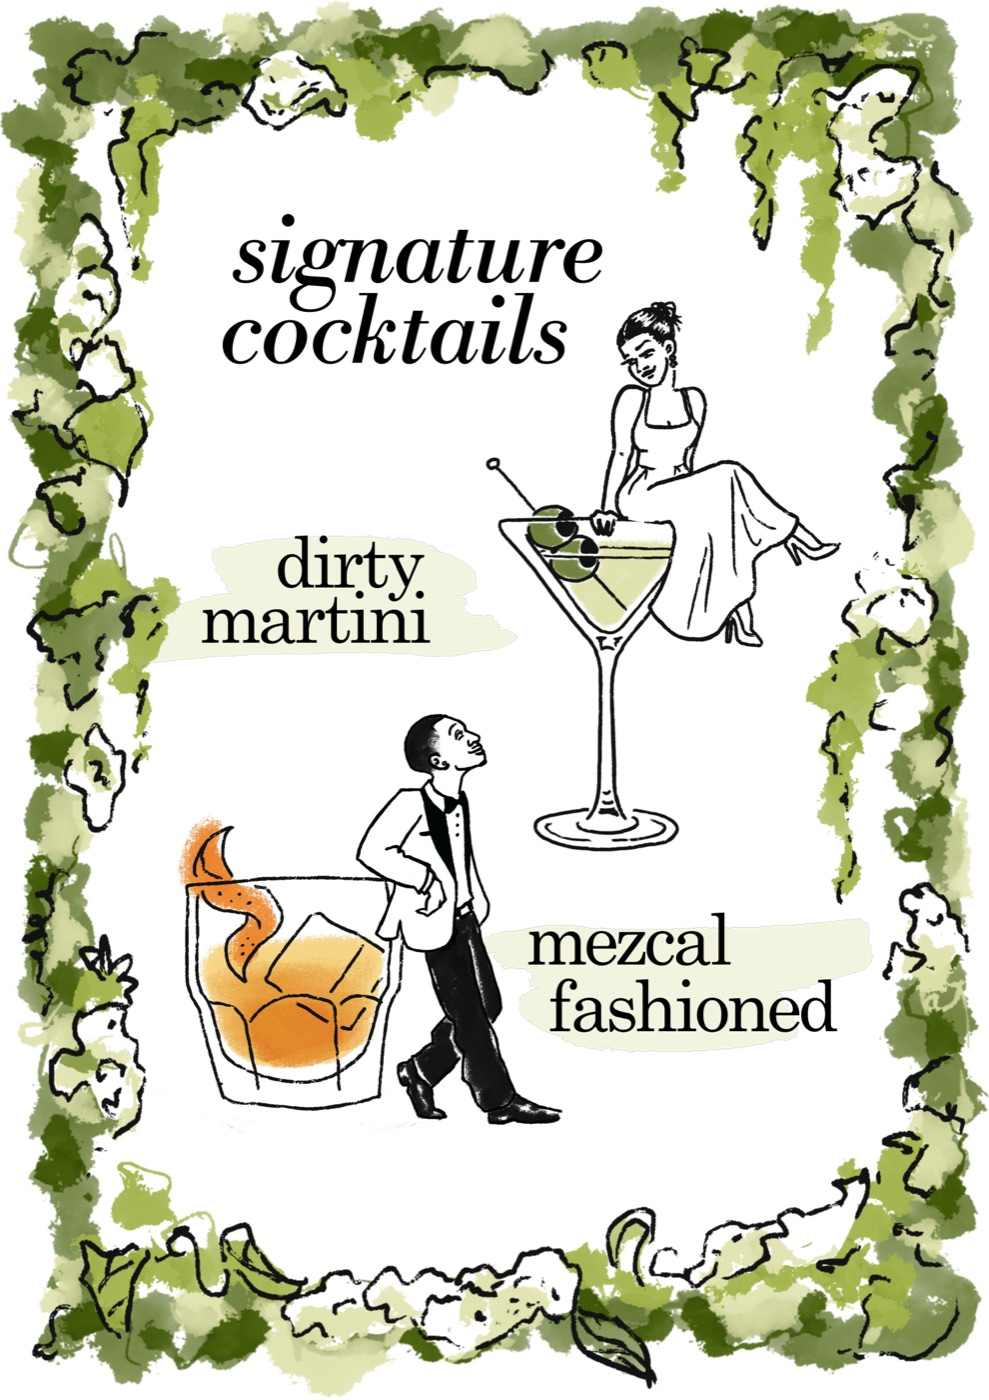
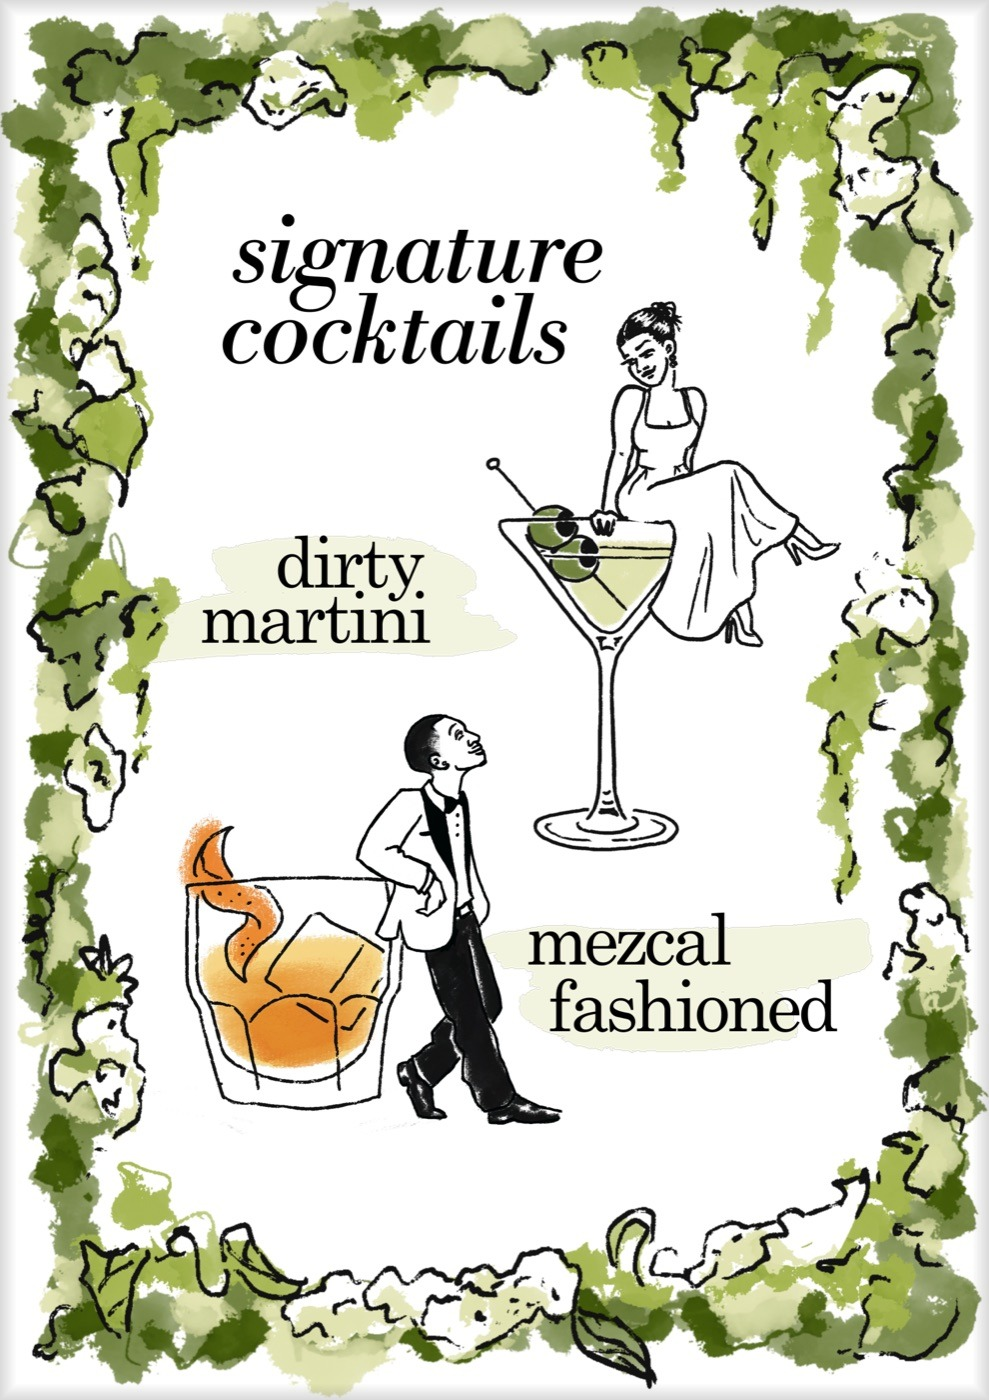
Brinn and CJ: bake the cocktail menu's shadow into the image itself
The CSS box-shadow on the cocktail menu was a fixed-pixel blur, so it
didn't scale with the image the way the other pieces' shadows (baked
into their files as a soft edge vignette) do -- it read as too heavy
at collage-thumbnail size and inconsistent at other sizes. Replace it
with the same kind of vignette baked directly into the file so it
scales exactly like the rest.

Changed region(s): [[0.0, 0.0, 1.0, 1.0]]

diff --git a/projects/brinn-cj-get-married.html b/projects/brinn-cj-get-married.html
@@ -41,7 +41,7 @@
               <img class="float drag" style="--x:142; --y:650; --w:580; --z:1" src="../assets/B&amp;CJ/B&amp;CJ_Final_All/web/gate-front.png" alt="Wedding invitation: illustrated iron gate with calla lily florals, inviting guests to the wedding of Brinn Strenger and CJ Siples">
               <img class="float drag" style="--x:522; --y:833; --w:570; --z:2" src="../assets/B&amp;CJ/B&amp;CJ_Final_All/web/gate-back.png" alt="Invitation details card: April 9th 2027 at The Arlo, Austin Texas, black-tie optional, RSVP by March 12th 2027">
               <img class="float drag" style="--x:1093; --y:195; --w:435; --z:1" src="../assets/B&amp;CJ/B&amp;CJ_Final_All/web/rehearsal-dinner.png" alt="Rehearsal dinner invitation with calla lily florals matching the wedding invitation suite">
-              <img class="float drag cocktail-shadow" style="--x:1533; --y:200; --w:435; --z:1" src="../assets/B&amp;CJ/B&amp;CJ_Final_All/web/cocktail-menu.jpg" alt="Illustrated wedding cocktail menu">
+              <img class="float drag" style="--x:1533; --y:200; --w:435; --z:1" src="../assets/B&amp;CJ/B&amp;CJ_Final_All/web/cocktail-menu.jpg" alt="Illustrated wedding cocktail menu">
               <img class="float drag" style="--x:1095; --y:833; --w:430; --z:1" src="../assets/B&amp;CJ/B&amp;CJ_Final_All/web/sticker-black.png" alt="Brinn and CJ wedding sticker, black background, line-art illustration of the couple dancing">
               <img class="float drag" style="--x:1430; --y:920; --w:410; --z:2" src="../assets/B&amp;CJ/B&amp;CJ_Final_All/web/sticker-green.png" alt="Brinn and CJ wedding sticker, green background, line-art illustration of the couple dancing">
             </div>

diff --git a/css/style.css b/css/style.css
@@ -533,13 +533,6 @@ nav.projects .nav-bottom {
   width: auto;
 }
 
-/* the cocktail menu is a full-bleed illustration with no baked-in card
-   shadow like the other Brinn & CJ stationery mockups, so match those
-   with a soft CSS elevation shadow instead */
-.cocktail-shadow {
-  box-shadow: 0 0 18px rgba(0, 0, 0, 0.16);
-}
-
 /* single hero (no carousel); longer copy wraps onto two lines */
 .hero-row.single .project-desc { white-space: normal; max-width: min(100%, 720px); }
 .hero-row.single .hero-stage { height: auto; }
